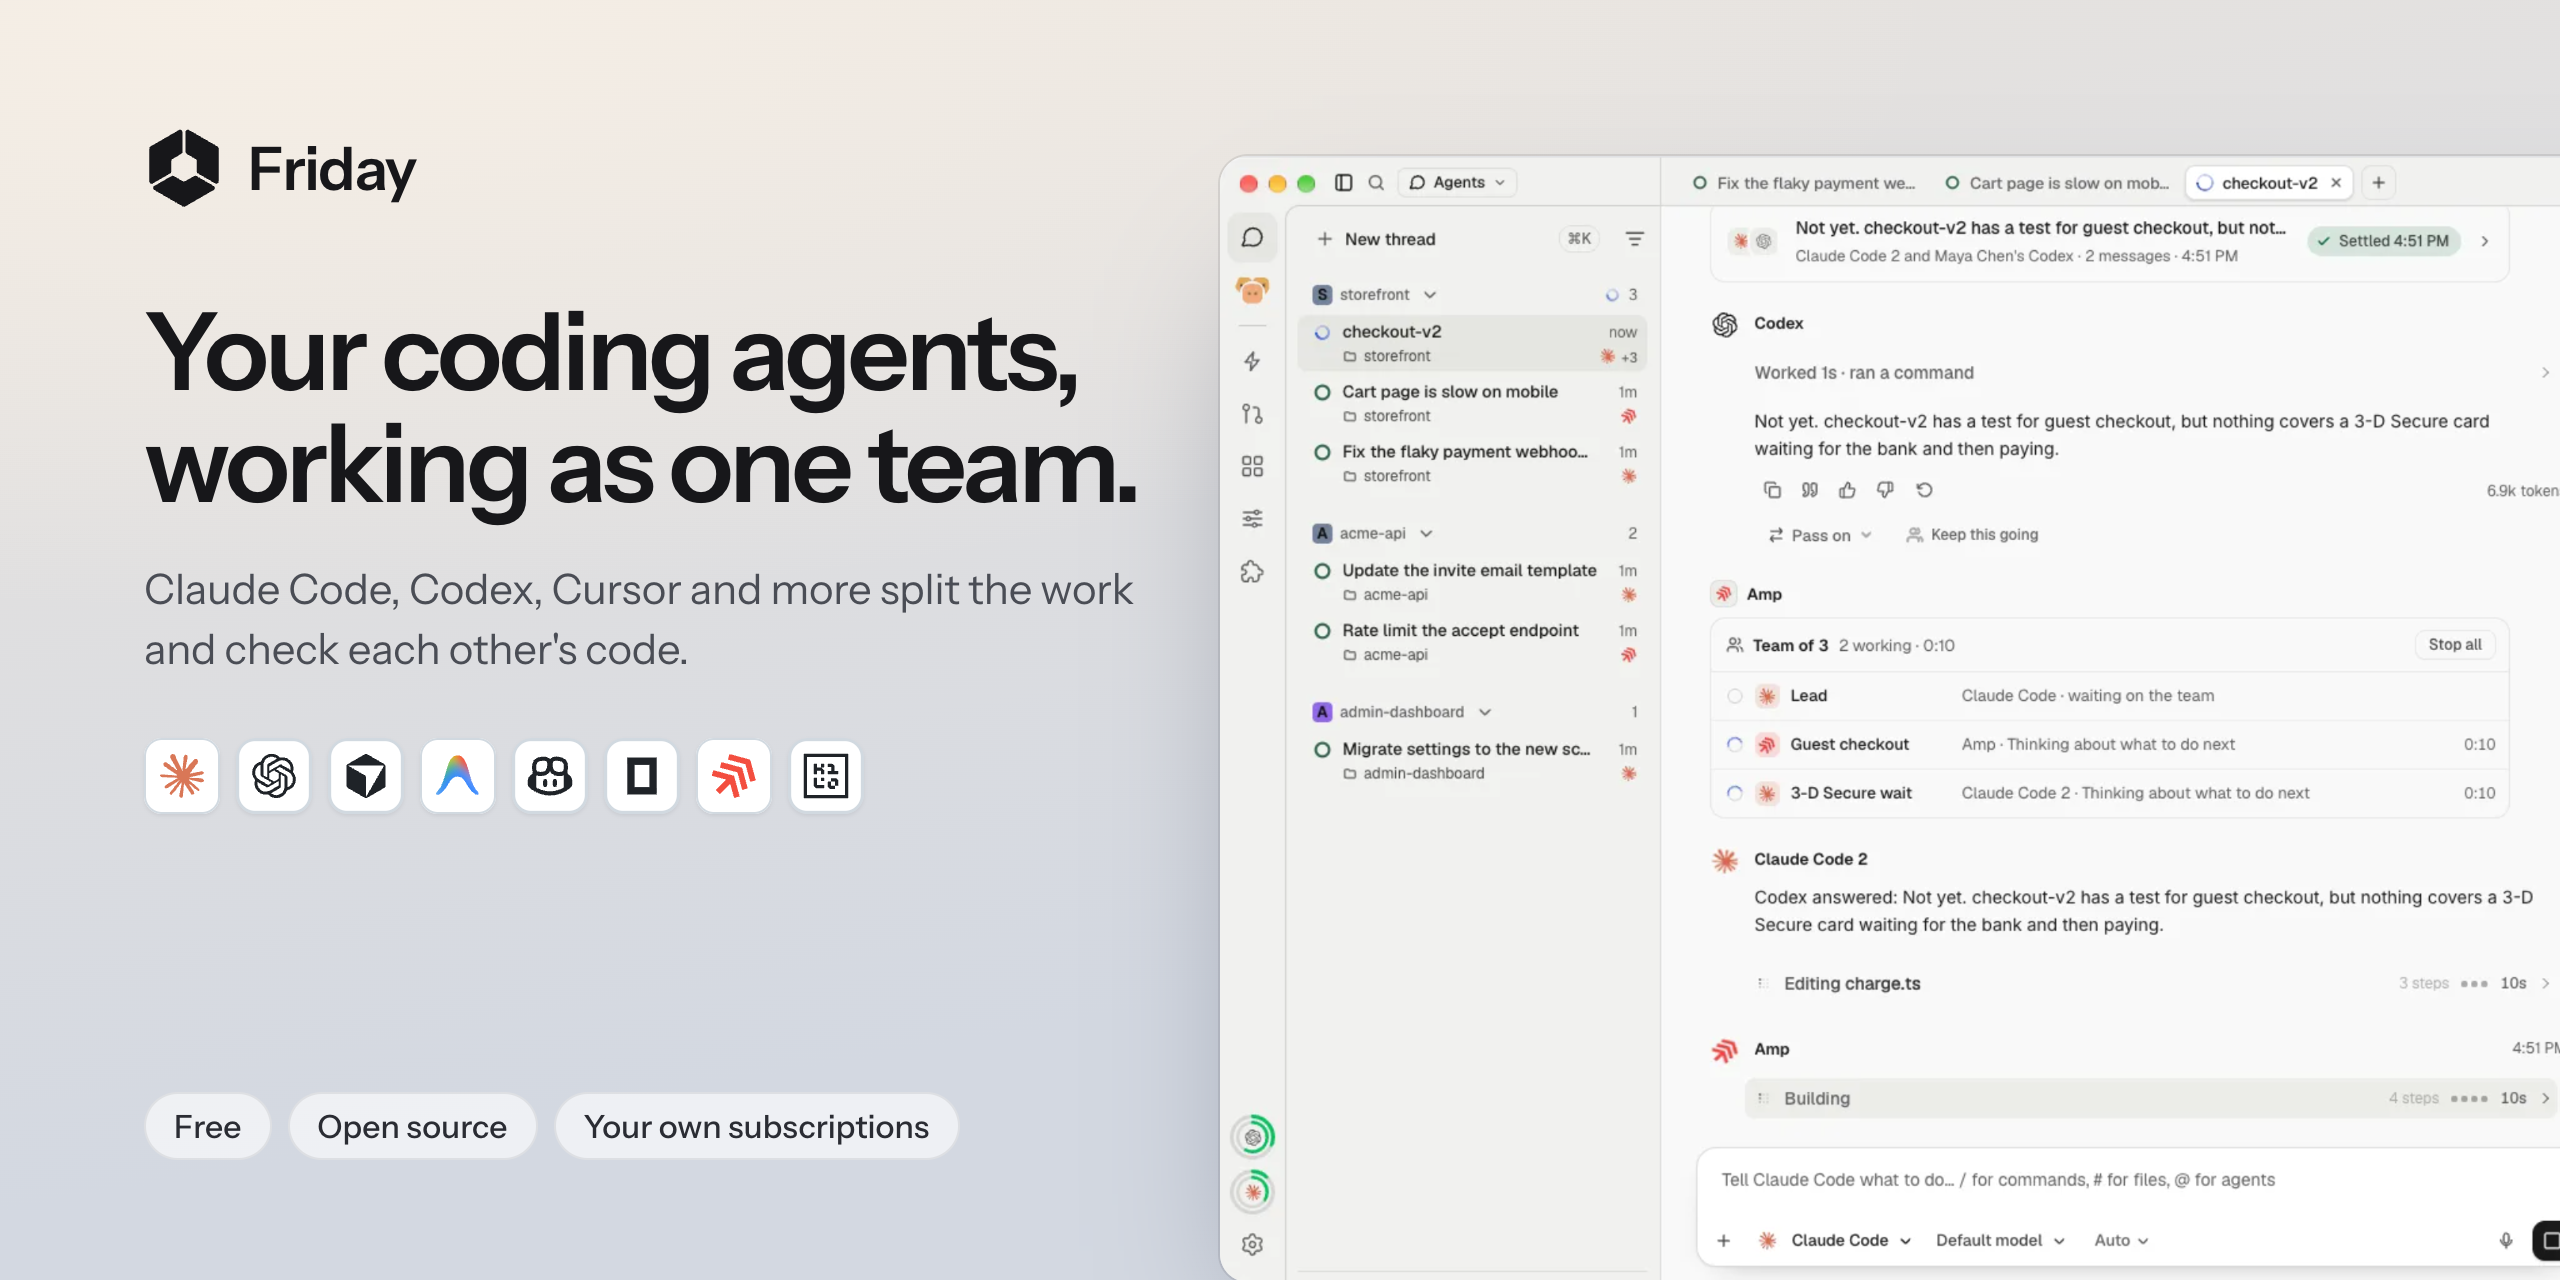
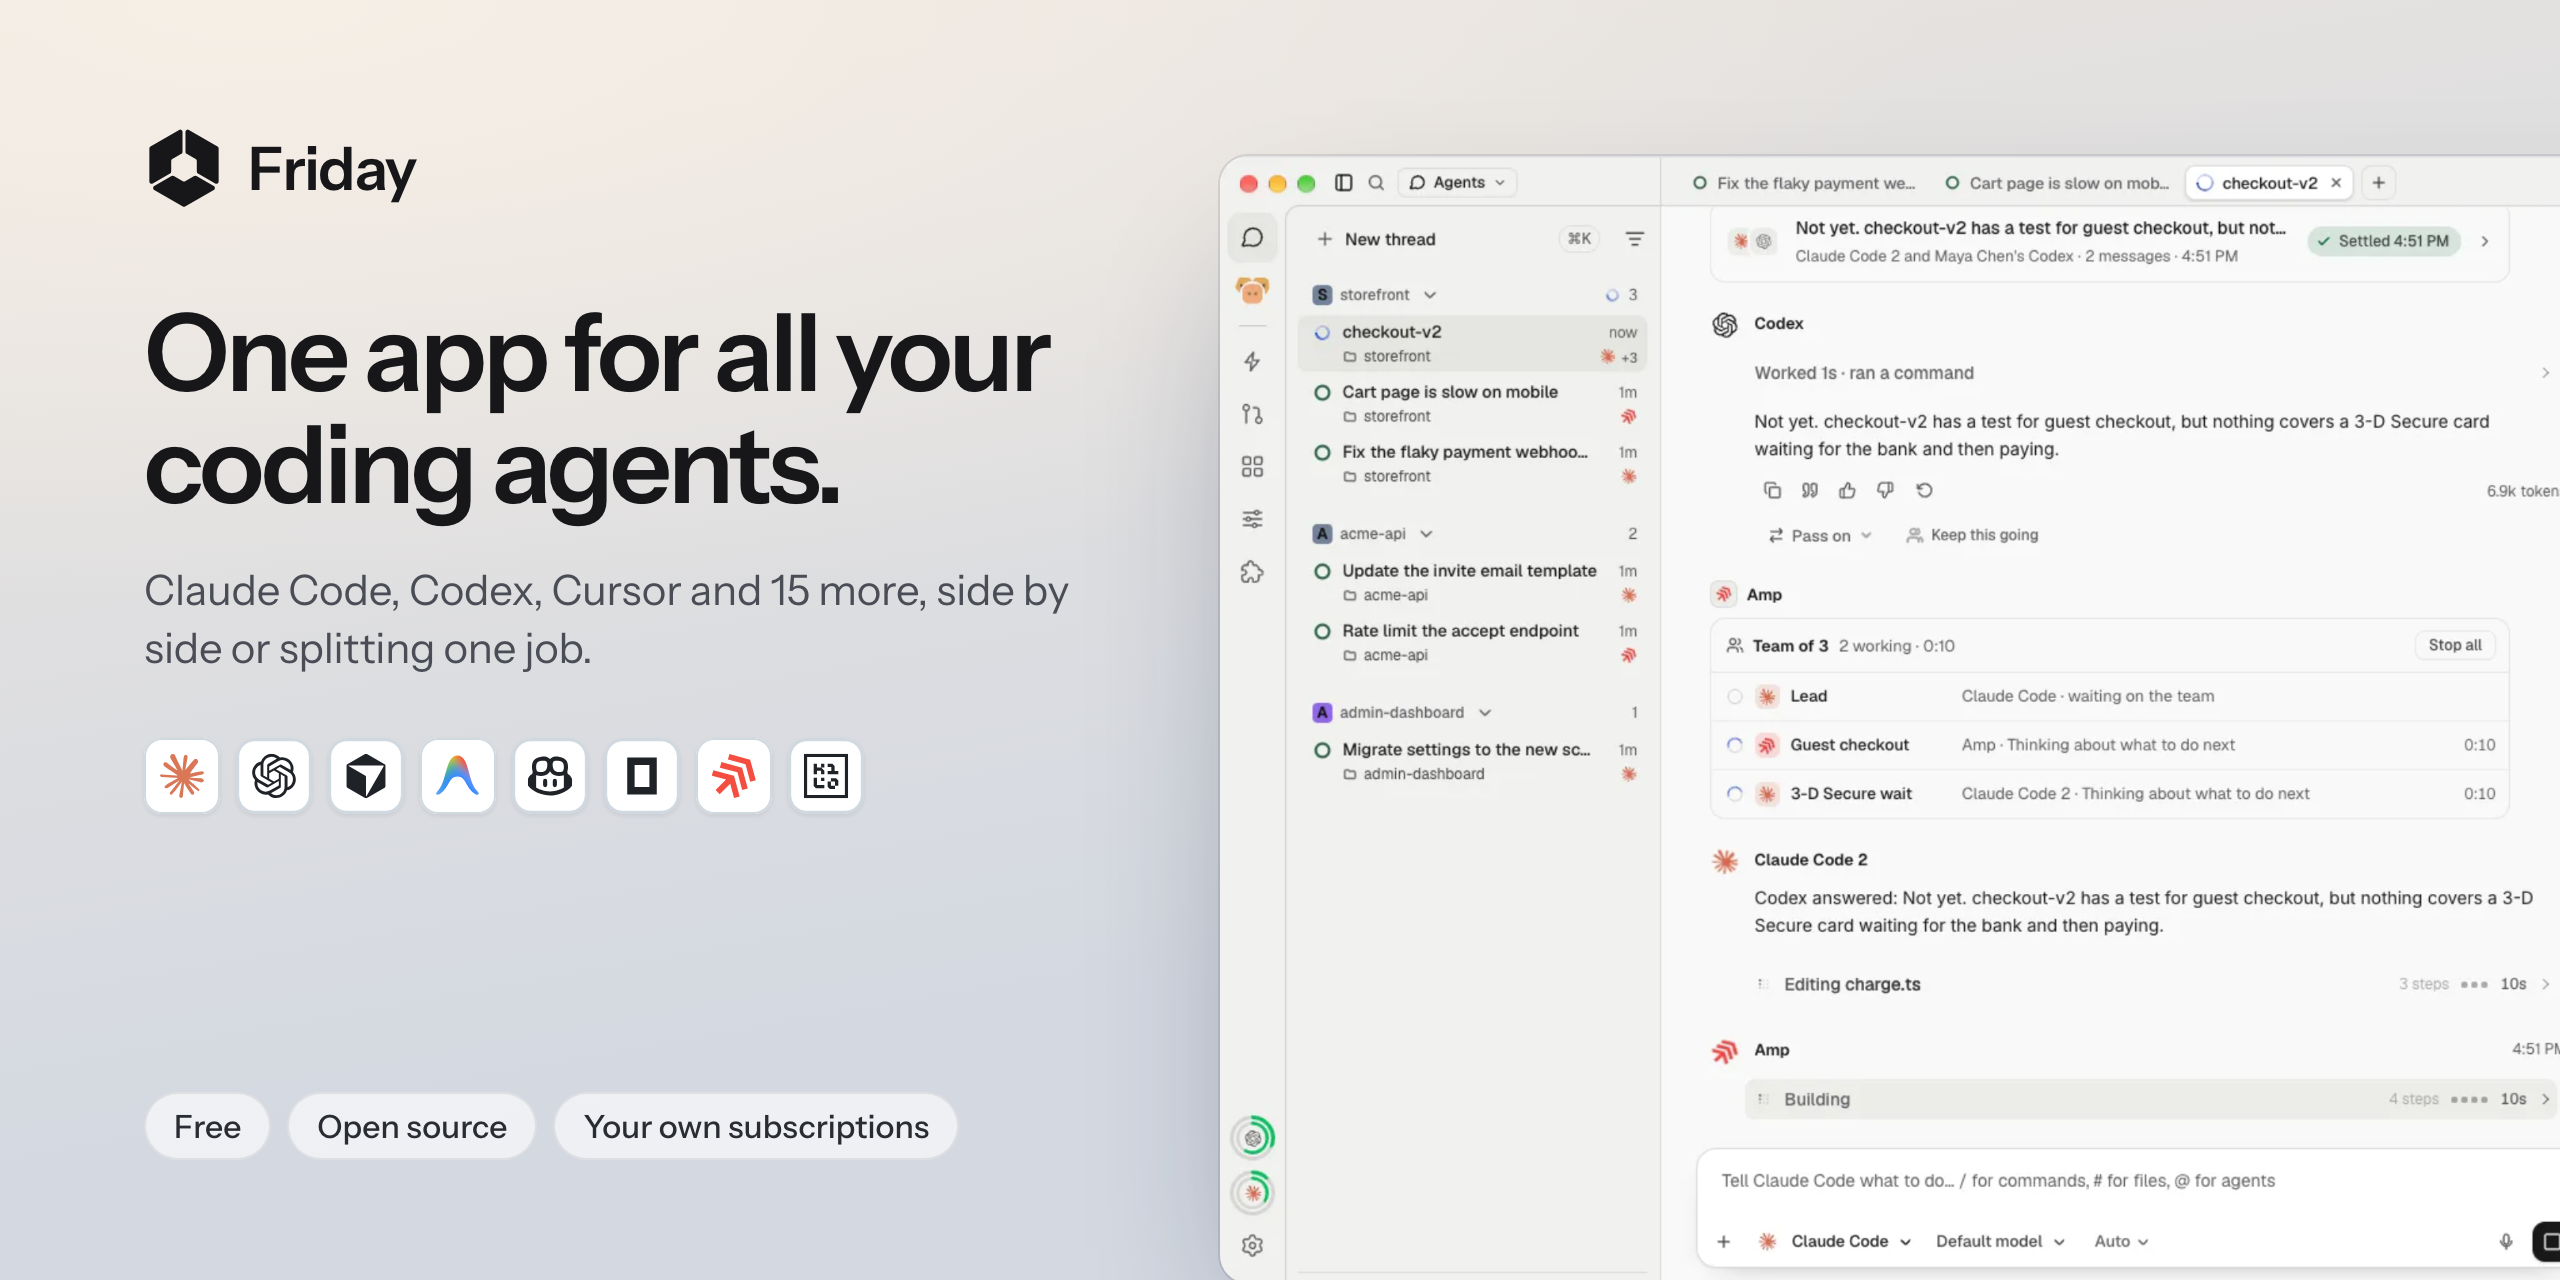
New pitch: one app for all your coding agents. README hero, social preview, Homebrew and winget descriptions.
Friday-Sync: 489f6682ac61d8c28f706a473340adcf5f32abcc

diff --git a/Casks/friday.rb b/Casks/friday.rb
@@ -7,7 +7,7 @@ cask "friday" do
   url "https://github.com/splashxmoon/friday-code/releases/latest/download/Friday-#{arch}.dmg",
       verified: "github.com/splashxmoon/friday-code/"
   name "Friday"
-  desc "Open-source harness for coding agents that work as a team"
+  desc "One app for all your coding agents"
   homepage "https://github.com/splashxmoon/friday-code"
 
   depends_on macos: :monterey

diff --git a/README.md b/README.md
@@ -5,8 +5,8 @@
 <h1 align="center">Friday</h1>
 
 <p align="center">
-  <strong>Your coding agents, working together as one team.</strong><br/>
-  Claude Code, Codex, Cursor and 15 more talk to each other, split the work and check each other's work. Free, open source, on your own computer.
+  <strong>One app for all your coding agents.</strong><br/>
+  Claude Code, Codex, Cursor and 15 more, on the subscriptions you already pay for. Run them side by side, or hand them a job: they split it, review each other's work, and pick up when one runs out. Free and open source, on your own computer.
 </p>
 
 <p align="center">
